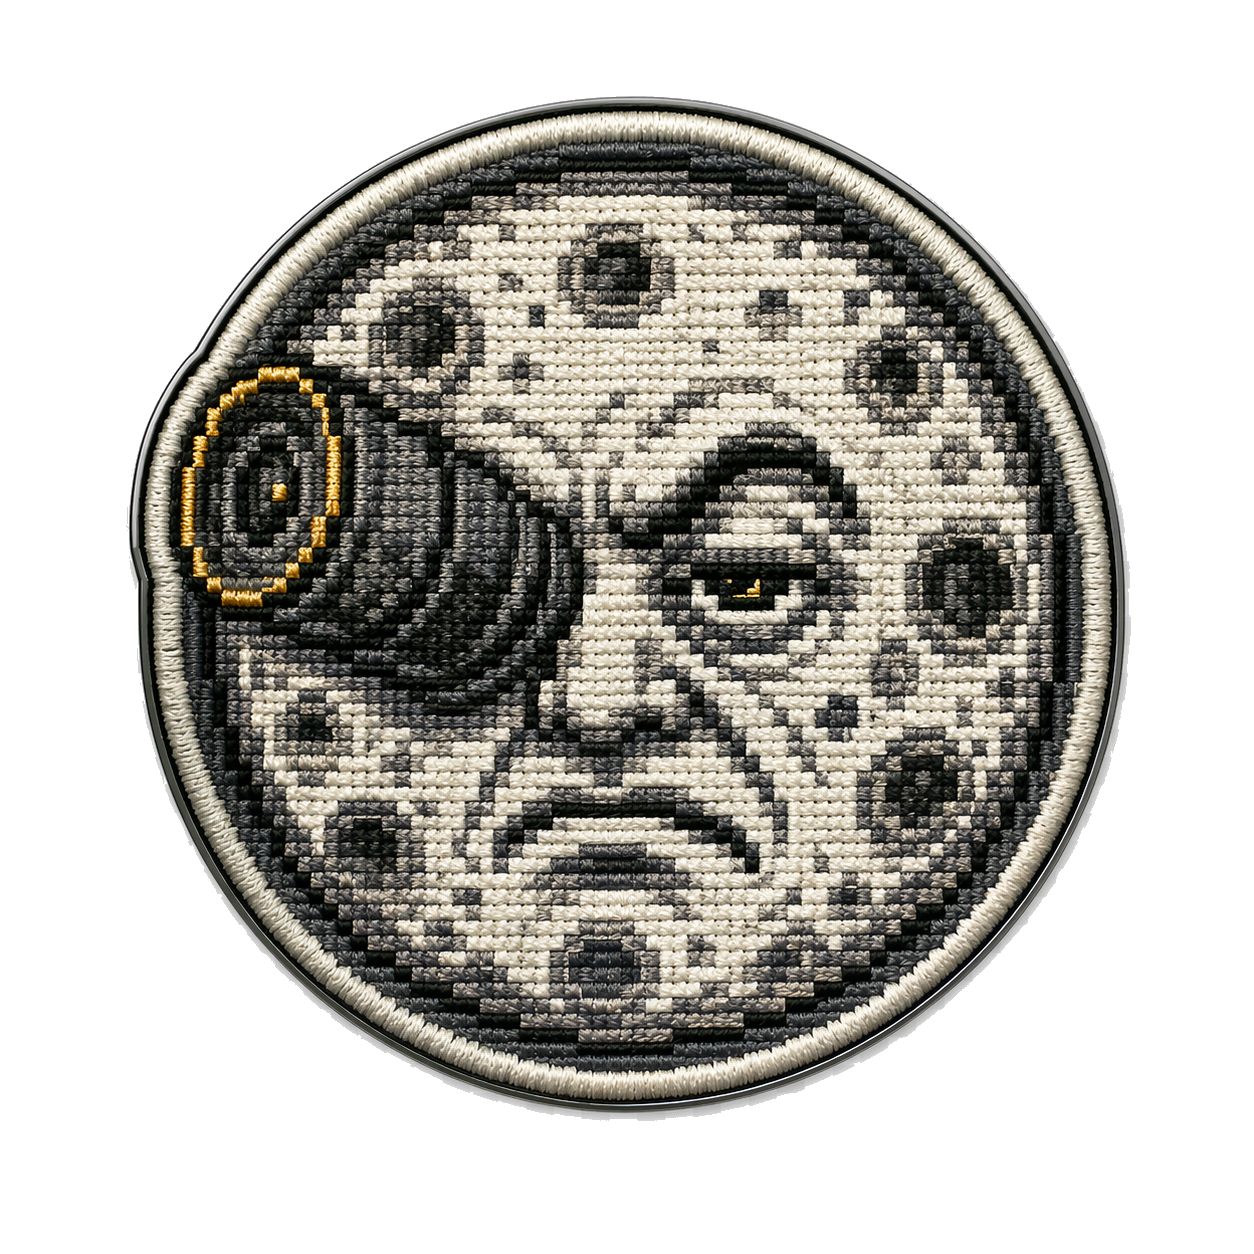
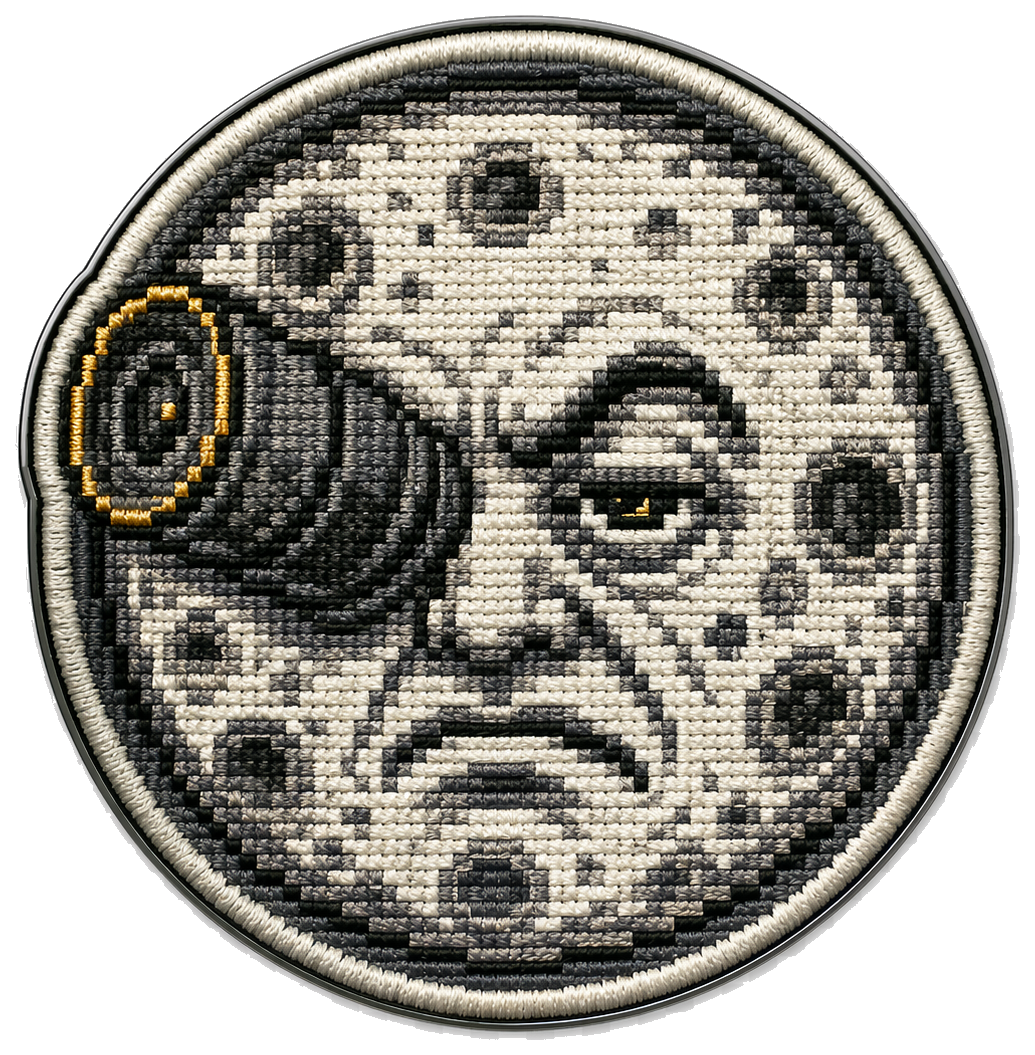
Tighten pin assets and desktop layout; remove unused dock constant

diff --git a/src/components/pinboard/data.ts b/src/components/pinboard/data.ts
@@ -15,7 +15,7 @@ export const boardPins: Record<BoardSide, PinConfig[]> = {
       size: 'md',
       initialRotate: 6,
       hoverRotate: -2,
-      anchor: { left: 'clamp(34px, 7vw, 108px)', top: 'clamp(134px, 20vh, 178px)' },
+      anchor: { left: 'clamp(14px, 3vw, 52px)', top: 'clamp(86px, 12vh, 150px)' },
       title: 'Azure Commerce',
       year: '2020 - 2021',
       subtitle: 'Commerce billing & rating infrastructure',
@@ -28,7 +28,7 @@ export const boardPins: Record<BoardSide, PinConfig[]> = {
       size: 'md',
       initialRotate: 10,
       hoverRotate: 5,
-      anchor: { right: 'clamp(52px, 8vw, 128px)', bottom: 'clamp(72px, 10vh, 118px)' },
+      anchor: { right: 'clamp(14px, 3vw, 52px)', top: 'clamp(150px, 22vh, 280px)' },
       title: 'Xbox Store',
       year: '2021 - Present',
       subtitle: 'Full-stack owner of next-gen Xbox storefronts',
@@ -43,7 +43,7 @@ export const boardPins: Record<BoardSide, PinConfig[]> = {
       size: 'md',
       initialRotate: -8,
       hoverRotate: -3,
-      anchor: { left: 'clamp(34px, 7vw, 112px)', top: 'clamp(158px, 24vh, 216px)' },
+      anchor: { left: 'clamp(14px, 3vw, 48px)', top: 'clamp(120px, 20vh, 230px)' },
       title: 'ICCV Oral Paper',
       year: '2019',
       subtitle: 'A Graph-Based Framework to Bridge Movies and Synopses',
@@ -58,7 +58,7 @@ export const boardPins: Record<BoardSide, PinConfig[]> = {
       size: 'sm',
       initialRotate: 6,
       hoverRotate: -2,
-      anchor: { right: 'clamp(58px, 9vw, 142px)', top: 'clamp(120px, 18vh, 164px)' },
+      anchor: { right: 'clamp(14px, 3vw, 48px)', top: 'clamp(96px, 15vh, 180px)' },
       title: 'Suphx Mahjong AI',
       year: 'Summer 2017',
       subtitle: "The World's Strongest Mahjong AI",
@@ -73,7 +73,7 @@ export const boardPins: Record<BoardSide, PinConfig[]> = {
       size: 'md',
       initialRotate: -4,
       hoverRotate: 2,
-      anchor: { right: 'clamp(44px, 7vw, 118px)', bottom: 'clamp(72px, 10vh, 118px)' },
+      anchor: { right: 'clamp(14px, 3vw, 48px)', bottom: 'clamp(54px, 9vh, 120px)' },
       title: 'IRONMAN',
       year: '2020',
       subtitle: 'VR remote-driving rig',
@@ -90,7 +90,7 @@ export const boardPins: Record<BoardSide, PinConfig[]> = {
       size: 'md',
       initialRotate: 7,
       hoverRotate: 2,
-      anchor: { left: 'clamp(42px, 8vw, 128px)', top: 'clamp(142px, 21vh, 190px)' },
+      anchor: { left: 'clamp(14px, 3vw, 48px)', top: 'clamp(120px, 20vh, 230px)' },
       title: 'KillStreak',
       year: '2019',
       subtitle: 'OpenGL MOBA with custom networking and physics',
@@ -105,7 +105,7 @@ export const boardPins: Record<BoardSide, PinConfig[]> = {
       size: 'sm',
       initialRotate: -8,
       hoverRotate: -2,
-      anchor: { right: 'clamp(54px, 9vw, 136px)', bottom: 'clamp(78px, 11vh, 124px)' },
+      anchor: { right: 'clamp(14px, 3vw, 48px)', bottom: 'clamp(70px, 11vh, 150px)' },
       title: 'A Happy Ending',
       year: '2018',
       subtitle: 'Polished all-campus VR competition winner',

diff --git a/src/components/pinboard/Pinboard.css b/src/components/pinboard/Pinboard.css
@@ -7,6 +7,16 @@
   --pin-rotate: var(--pin-hover-rotate);
 }
 
+/* Cap pin artwork height so tall logos stay proportionate to wide ones. */
+.decorative-patch img {
+  width: auto;
+  height: auto;
+  max-width: 100%;
+  max-height: clamp(6rem, 19vh, 13rem);
+  margin-inline: auto;
+  object-fit: contain;
+}
+
 .board-tab-strip {
   display: flex;
   flex-wrap: wrap;
@@ -414,9 +424,13 @@
 
 .pin-card-badge {
   position: absolute;
-  top: -0.9rem;
-  right: 0.7rem;
-  width: clamp(3.9rem, 22vw, 5.4rem);
+  top: -1rem;
+  right: 0.6rem;
+  display: flex;
+  align-items: flex-start;
+  justify-content: flex-end;
+  width: clamp(4rem, 23vw, 5.8rem);
+  height: clamp(3.1rem, 16vw, 4.4rem);
   transform: rotate(6deg);
   filter: drop-shadow(0 6px 9px rgba(0, 0, 0, 0.4));
   pointer-events: none;
@@ -424,8 +438,11 @@
 
 .pin-card-badge img {
   display: block;
-  width: 100%;
+  width: auto;
   height: auto;
+  max-width: 100%;
+  max-height: 100%;
+  object-fit: contain;
 }
 
 .pin-card-eyebrow {
@@ -434,7 +451,7 @@
   align-items: flex-start;
   gap: 0.18rem;
   margin: 0 0 0.3rem;
-  padding-right: 4.6rem;
+  padding-right: 6.4rem;
   color: #865225;
   font-size: 0.68rem;
   font-weight: 800;
@@ -444,7 +461,7 @@
 
 .pin-card-title {
   margin: 0;
-  padding-right: 4.6rem;
+  padding-right: 6.4rem;
   font-size: 1.22rem;
   font-weight: 900;
   line-height: 1.12;

diff --git a/src/components/pinboard/layout.ts b/src/components/pinboard/layout.ts
@@ -6,7 +6,7 @@ export function clamp(value: number, min: number, max: number) {
 }
 
 export function getNoteLayoutForSize(boardWidth: number, boardHeight: number): NoteLayout {
-  const sideReserve = boardWidth >= 1000 ? 420 : boardWidth >= 760 ? 340 : boardWidth >= 620 ? 220 : 160;
+  const sideReserve = boardWidth >= 1000 ? 540 : boardWidth >= 760 ? 460 : boardWidth >= 620 ? 360 : 200;
   const verticalReserve = boardHeight >= 700 ? 80 : boardHeight >= 540 ? 64 : 52;
   const width = Math.min(NOTE_WIDTH, Math.max(360, boardWidth - sideReserve));
   const height = Math.min(NOTE_HEIGHT, Math.max(320, boardHeight - verticalReserve));
@@ -25,6 +25,6 @@ export function getNotePinPositionForSize(boardWidth: number, boardHeight: numbe
 
   return {
     x: clamp(note.x + 24, 0, boardWidth - width),
-    y: clamp(note.y + dockHeight - height, 0, boardHeight - height),
+    y: clamp(note.y + dockHeight * 0.8 - height, 0, boardHeight - height),
   };
 }

diff --git a/src/components/DecorativePatch.tsx b/src/components/DecorativePatch.tsx
@@ -23,9 +23,9 @@ type Props = {
 };
 
 const sizeWidths: Record<Size, string> = {
-  sm: 'clamp(5rem, min(16vw, 20vh), 14rem)',
-  md: 'clamp(6rem, min(22vw, 27vh), 18rem)',
-  lg: 'clamp(7rem, min(26vw, 31vh), 20rem)',
+  sm: 'clamp(5.5rem, 14vw, 11rem)',
+  md: 'clamp(6.5rem, 16vw, 12.5rem)',
+  lg: 'clamp(7.5rem, 18vw, 14rem)',
 };
 
 export default function DecorativePatch({

diff --git a/src/components/pinboard/constants.ts b/src/components/pinboard/constants.ts
@@ -6,7 +6,6 @@ export const BOARD_SWITCH_DURATION_MS = 900;
 export const CLICK_MOVE_THRESHOLD = 6;
 export const NOTE_WIDTH = 760;
 export const NOTE_HEIGHT = 760;
-export const NOTE_DOCK_HEIGHT = 150;
 export const MIN_NOTE_DOCK_HEIGHT = 96;
 export const MAX_NOTE_DOCK_HEIGHT = 172;
 export const NOTE_DOCK_HEIGHT_RATIO = 0.21;
